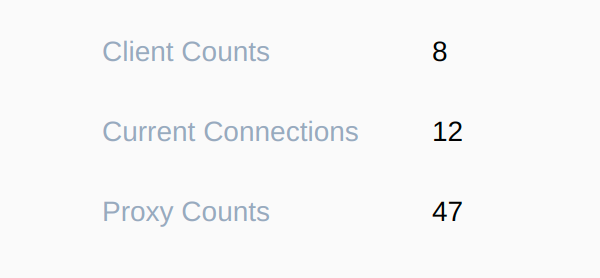
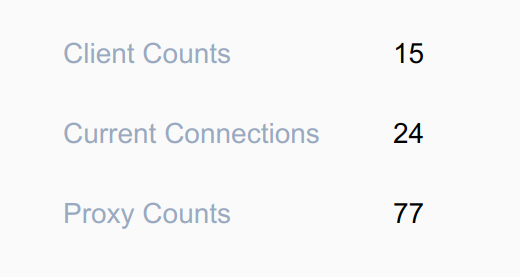
blog

diff --git a/source/_posts/en/wireguard.md b/source/_posts/en/wireguard.md
@@ -12,7 +12,7 @@ categories:
 - network
 ---
 
-远程访问通常可以用向日葵、frp实现，但有限制，向日葵远程桌面还行，特定系统特定端口无法实现，比如linux系统ssh端口，frp可以做到但每个服务都要映射端口很繁琐，尤其是端口多的情况挨个配置很费劲:
+远程访问通常可以用向日葵、frp，但有限制，向日葵远程桌面还行，特定端口无法实现，比如ssh，frp可以做到任意端口但每个服务都要映射一次很繁琐，尤其是端口多的情况挨个配置也费劲，比如这77个端口:
 
 ![](frp.png)
 <br/>
